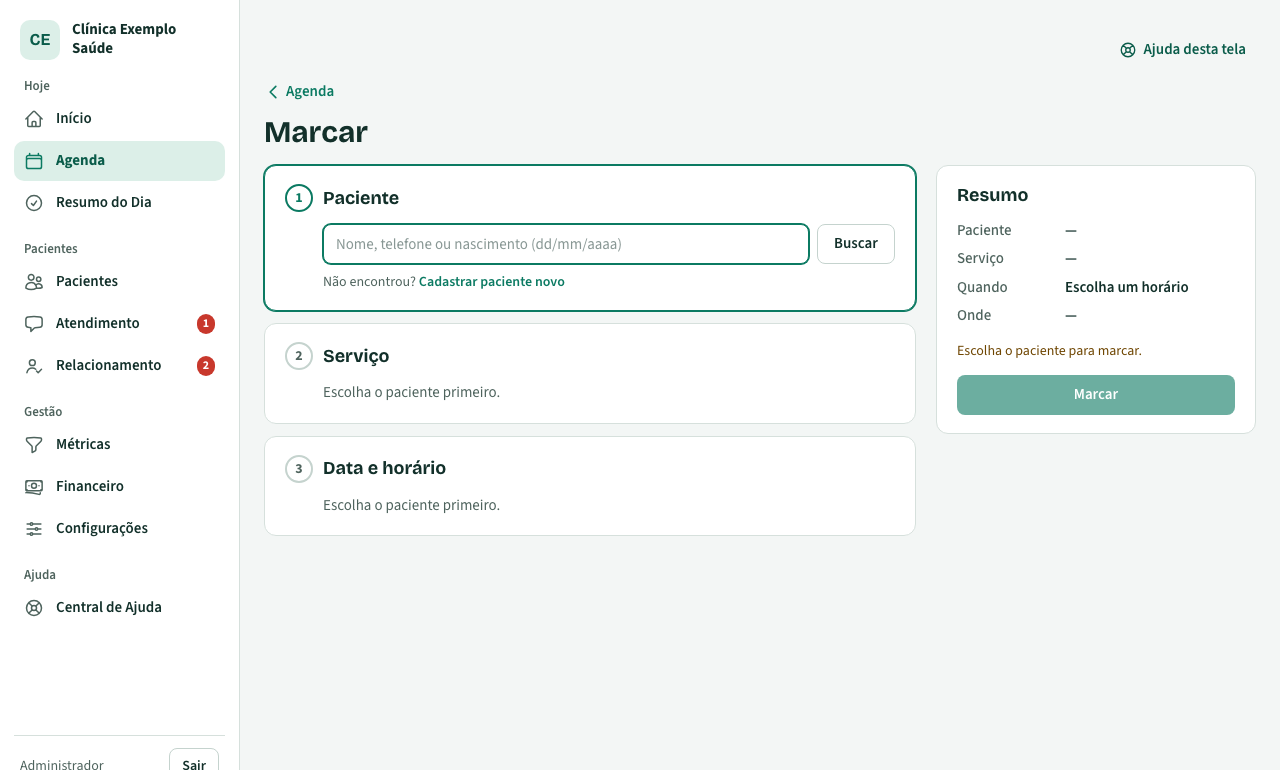
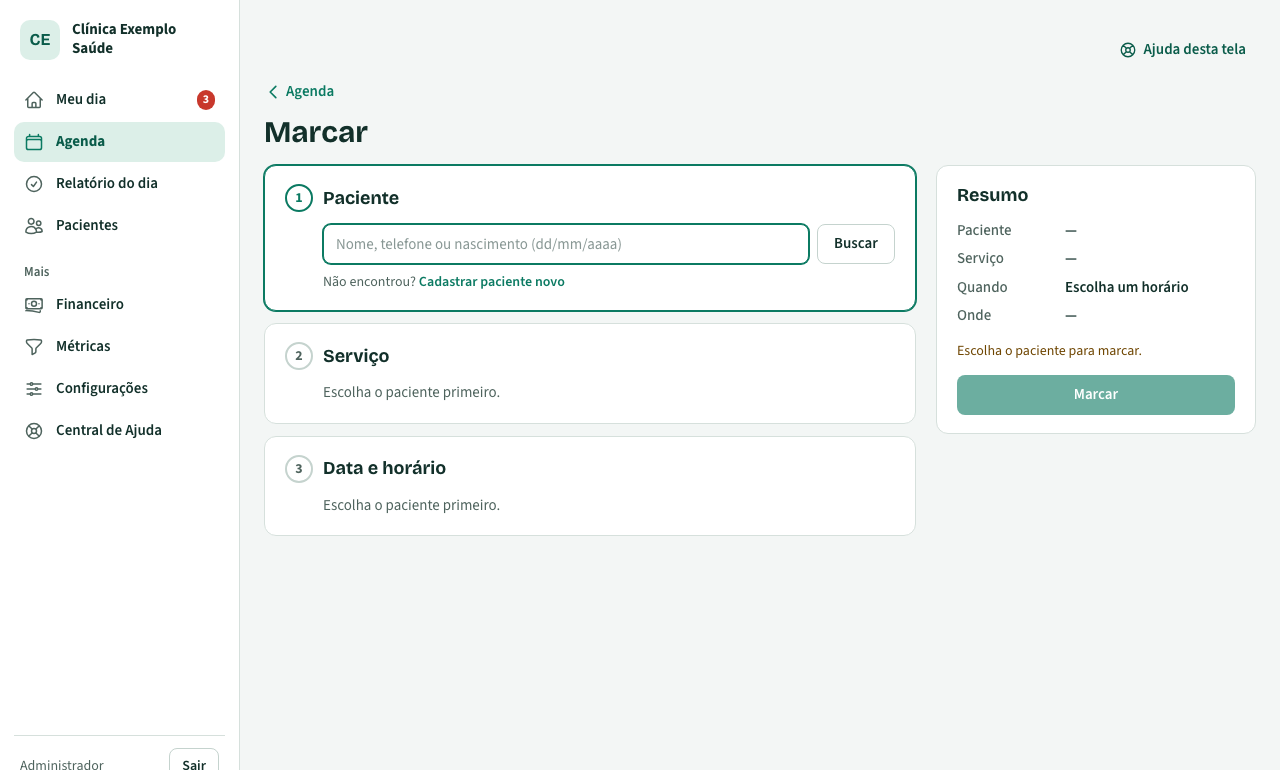
Central de Ajuda: artigos e 25 capturas refeitas com o redesign da Recepção

diff --git a/src/lib/central/artigos/atendimento.ts b/src/lib/central/artigos/atendimento.ts
@@ -39,24 +39,21 @@ export const atendimentoArtigos = [
   article({
     id: "resumo-do-dia",
     title: "Relatório do dia e suas abas",
-    summary: "O que há em cada aba: lembretes, lista de espera, aguardando remarcação, a registrar, registradas e envios.",
+    summary: "O que há em cada aba: Resumo do dia, Lembretes e A registrar.",
     category: "atendimento",
     module: "Relatório do dia",
     where: "Relatório do dia (no menu; também em Agenda › Mais)",
-    keywords: ["relatório do dia", "resumo do dia", "a registrar", "registradas", "aguardando remarcação", "envios", "lembretes"],
+    keywords: ["relatório do dia", "resumo do dia", "a registrar", "compareceu", "faltou", "lembretes"],
     synonyms: ["registrar comparecimento", "quem veio hoje", "pendências do dia", "marcar presença"],
-    related: ["situacoes-e-acoes-do-cartao", "lembretes-e-confirmacoes", "lista-de-espera"],
+    related: ["situacoes-e-acoes-do-cartao", "lembretes-e-confirmacoes", "relacionamento"],
     order: 41,
     intro: "Reúne o que a equipe precisa fazer no dia. Tudo vem das agendas que a pessoa vê (o Profissional vê só as próprias).",
     fields: [
-      { name: "Resumo do dia", text: "Só informação." },
+      { name: "Resumo do dia", text: "Só informação, em linhas curtas: o dia da clínica num relance." },
       { name: "Lembretes", text: "Quem confirmou, pediu para remarcar, pediu para cancelar, não respondeu ou ficou com o lembrete não entregue (com o item Lembrete automático)." },
-      { name: "Lista de espera", text: "Pacientes que querem antecipar (com o item Lista de espera)." },
-      { name: "Aguardando remarcação", text: "Quem teve o atendimento cancelado pela clínica (em massa ou pelo bloqueio) e ainda não remarcou." },
-      { name: "A registrar / Registradas", text: "Atendimentos que já passaram sem Compareceu ou Faltou, e os já registrados." },
-      { name: "Envios", text: "Atendimentos por vir com algum envio pelo WhatsApp que não saiu, e as rotinas que rodaram (Rodou, Rodando, Travou, Erro)." },
+      { name: "A registrar", text: "Atendimentos que já passaram sem Compareceu ou Faltou, o mais antigo primeiro, com os dois botões na própria linha (cada um pede confirmação). Para corrigir um já registrado, use a Agenda." },
     ],
-    notes: ["Falha técnica no envio é tentada de novo sozinha, 10 e 30 minutos depois (\"Tentando de novo\")."],
+    notes: ["Lista de espera e Aguardando remarcação ficam em Pacientes › Para contatar.", "Os envios que falharam e as rotinas do WhatsApp aparecem só para o Suporte do RecepClinic."],
     contextual: ["/admin/consultas"],
   }),
   article({
@@ -71,13 +68,13 @@ export const atendimentoArtigos = [
     synonyms: ["acompanhamento de pacientes", "quem devo chamar", "recuperar paciente"],
     related: ["atendimento-humano", "contatos-para-revisar", "ficha-do-paciente"],
     order: 42,
-    intro: "Reúne as pessoas que pedem contato da equipe, uma lista por vez: as listas ficam à esquerda, com o número de cada uma, e a escolhida à direita. São as mesmas listas do Relatório do dia e das Métricas, com as mesmas regras.",
+    intro: "Reúne as pessoas que pedem contato da equipe, uma lista por vez: as listas ficam à esquerda, com o número de cada uma, e a escolhida à direita. São as mesmas listas das Métricas, com as mesmas regras.",
     fields: [
       { name: "Retomar contato", text: "Quem começou pelo WhatsApp (bot ou link) e não concluiu nos últimos 14 dias. Várias tentativas do mesmo número no mesmo fluxo viram uma linha. \"Retirar da lista\" tira a linha daqui e das Métricas." },
       { name: "Retorno", text: "Consultas realizadas com o prazo de retorno aberto e sem retorno marcado." },
       { name: "Lembretes da equipe", text: "Os lembretes escritos na ficha do paciente, no dia marcado, até alguém marcar Feito." },
       { name: "Faltosos", text: "Quem tem 2 ou mais faltas e faltou em pelo menos metade dos atendimentos registrados." },
-      { name: "Aguardando remarcação e Lista de espera", text: "As mesmas do Relatório do dia." },
+      { name: "Aguardando remarcação e Lista de espera", text: "Quem teve o atendimento cancelado pela clínica e ainda não remarcou, e quem espera para antecipar (com o item Lista de espera). Saíram do Relatório do dia." },
     ],
     notes: [
       "Cada lista mostra quantas pessoas pedem atenção. A pessoa sai sozinha quando o motivo deixa de existir.",

diff --git a/src/lib/central/imagens.ts b/src/lib/central/imagens.ts
@@ -7,14 +7,14 @@ const shot = (file: string, alt: string, caption: string): ArticleImage => ({ fi
 
 export const IMAGENS: Record<string, ArticleImage[]> = {
   "inicio-do-painel": [shot("inicio", "Tela Meu dia com a linha do dia e a lista Precisa de você.", "Meu dia: o que precisa de você agora, numa lista só.")],
-  "agenda-visualizar": [shot("agenda-dia", "Agenda na visão Dia, com os botões Marcar e Bloquear destacados.", "Agenda › Dia: os botões Marcar e Bloquear ficam no alto, e cada atendimento mostra as ações no cartão.")],
-  "situacoes-e-acoes-do-cartao": [shot("agenda-dia", "Cartões de atendimento na Agenda, com a legenda das situações e os botões Confirmar presença, Remarcar, Mais e Cancelar.", "A legenda das situações fica acima das agendas; as ações estão no cartão de cada atendimento.")],
+  "agenda-visualizar": [shot("agenda-dia", "Agenda na visão Dia, com os botões Marcar e Bloquear destacados.", "Agenda › Dia: Bloquear, Mais e Marcar consulta ficam no alto; cada agenda tem as suas linhas curtas.")],
+  "situacoes-e-acoes-do-cartao": [shot("agenda-dia", "Linhas de atendimento na Agenda, com a legenda das situações.", "Toque na linha para abrir o cartão com as ações: Confirmar presença, Remarcar, Mais e Cancelar.")],
   "marcar-atendimento": [shot("marcar", "Tela Marcar, com o passo 1, Paciente, destacado e o resumo à direita.", "O Marcar começa pelo paciente: busque por nome, telefone ou nascimento, ou use \"Cadastrar paciente novo\".")],
   "bloquear-agenda": [shot("bloquear", "Tela Bloquear agenda, com a opção Dia todo destacada.", "Agenda › Bloquear: escolha as agendas, o período e o motivo.")],
   "gerenciar-bloqueios": [shot("bloqueios", "Lista de bloqueios da Agenda.", "Agenda › Bloqueios: edite ou remova os bloqueios que ainda não terminaram.")],
-  "buscar-pacientes": [shot("pacientes", "Lista de pacientes, com o campo de busca e o botão Cadastrar destacados.", "Pacientes: a busca aceita nome, telefone ou nascimento.")],
-  "cadastrar-paciente": [shot("paciente-novo", "Formulário de cadastro de paciente, com o botão de cadastrar destacado.", "Pacientes › Cadastrar: paciente, contato e, com Convênios, o plano.")],
-  "resumo-do-dia": [shot("resumo-do-dia", "Relatório do dia, com as abas Lembretes, A registrar e Registradas destacadas.", "Relatório do dia: uma aba para cada tipo de pendência.")],
+  "buscar-pacientes": [shot("pacientes", "Lista de pacientes, com o campo de busca e o botão Novo paciente destacados.", "Pacientes: a busca aceita nome, telefone ou nascimento.")],
+  "cadastrar-paciente": [shot("paciente-novo", "Formulário de cadastro de paciente, com o botão de cadastrar destacado.", "Pacientes › Novo paciente: paciente, contato e, com Convênios, o plano.")],
+  "resumo-do-dia": [shot("resumo-do-dia", "Relatório do dia, com as abas Resumo do dia, Lembretes e A registrar.", "Relatório do dia: o resumo, os lembretes e as consultas a registrar.")],
   "atendimento-humano": [shot("atendimento", "Tela Atendimento, com as conversas que aguardam a clínica.", "Atendimento: conversas em que o bot parou. Use Devolver ao bot ao terminar.")],
   relacionamento: [shot("relacionamento", "Pacientes › Para contatar, com as listas à esquerda e a escolhida à direita.", "Para contatar: uma lista para cada motivo de contato.")],
   "metricas-visao-geral": [shot("metricas", "Tela de Métricas, com as abas e o seletor de período.", "Métricas: escolha o período e a aba.")],

diff --git a/src/lib/central/artigos/agenda.ts b/src/lib/central/artigos/agenda.ts
@@ -21,7 +21,7 @@ export const agendaArtigos = [
       "Abra Agenda. A visão Dia abre com todas as agendas que a sua função vê; o nome da agenda aparece em cada atendimento.",
       "Use as setas e a data para mudar o dia. Na Semana e no Mês, toque num dia para abri-lo na visão Dia, onde ficam as ações.",
       "Para ver só algumas agendas, escolha-as no filtro de agendas.",
-      "Para achar os atendimentos futuros de um paciente, use a busca da Agenda: nome ou telefone (4 dígitos ou mais). Com um só resultado, os próximos atendimentos já aparecem.",
+      "Para achar os atendimentos futuros de um paciente, use Mais › Buscar paciente, no alto da Agenda: nome ou telefone (4 dígitos ou mais). Com um só resultado, os próximos atendimentos já aparecem.",
     ],
     notes: [
       "O Profissional vê só as próprias agendas. Quem tem acesso restrito vê apenas as agendas liberadas na Equipe.",
@@ -68,7 +68,7 @@ export const agendaArtigos = [
   }),
   article({
     id: "situacoes-e-acoes-do-cartao",
-    title: "Situações e ações do cartão do atendimento",
+    title: "Situações e ações do atendimento (cartão)",
     summary: "O que significam as cores e os botões de cada atendimento na Agenda.",
     category: "agenda",
     module: "Agenda › Dia",
@@ -77,7 +77,7 @@ export const agendaArtigos = [
     synonyms: ["cores da agenda", "o que significa", "confirmar presença", "registrar falta"],
     related: ["remarcar-atendimento", "cancelar-atendimento", "alterar-atendimento", "trilha-do-atendimento"],
     order: 12,
-    intro: "A cor e o selo de cada atendimento dizem em que pé ele está. As ações mudam conforme a situação.",
+    intro: "Na Agenda › Dia, cada atendimento é uma linha curta com o horário, o paciente e a situação. Toque na linha para abrir as ações no lugar (o \"cartão\"). A cor e o selo dizem em que pé ele está; as ações mudam conforme a situação.",
     fields: [
       { name: "Não confirmado", text: "O paciente ainda não confirmou a presença." },
       { name: "Confirmado", text: "O paciente tocou em Confirmar presença no lembrete do WhatsApp ou pelo bot, ou a recepção usou Confirmar presença no cartão." },
@@ -281,12 +281,11 @@ export const agendaArtigos = [
     title: "Lista de espera: encaixe e antecipar atendimentos",
     summary: "Como a vaga de um cancelamento é oferecida a quem quer antecipar.",
     category: "agenda",
-    module: "Relatório do dia › Lista de espera",
-    where: "Relatório do dia › Lista de espera (com o item Lista de espera)",
-    screen: { path: "/admin/consultas", tab: "lista_espera" },
+    module: "Pacientes › Para contatar › Lista de espera",
+    where: "Pacientes › Para contatar › Lista de espera (com o item Lista de espera)",
     keywords: ["lista de espera", "encaixe", "antecipar", "vaga", "oferta", "fila"],
     synonyms: ["adiantar consulta", "quero um horário mais cedo", "vaga que abriu"],
-    related: ["cancelar-atendimento", "como-funciona-o-bot", "resumo-do-dia"],
+    related: ["cancelar-atendimento", "como-funciona-o-bot", "relacionamento"],
     order: 21,
     intro: "A lista é de quem já tem horário marcado e quer antecipar. Entra pelo WhatsApp (\"Encaixe ou antecipar\") ou pela recepção.",
     fields: [

diff --git a/src/lib/central/faq.ts b/src/lib/central/faq.ts
@@ -25,7 +25,7 @@ export const FAQS: Faq[] = [
   f("bot-parou", "A conversa parou de ser respondida pelo bot. Por quê?", "Provavelmente está em Atendimento, esperando a clínica. Depois de atender, toque em Devolver ao bot (ou escreva #bot na conversa).", "atendimento-humano", ["pausado"]),
   f("devolver-bot", "Como devolvo a conversa ao bot?", "Em Atendimento, \"Devolver ao bot\", ou escreva #bot na conversa pelo app. O bot volta na próxima mensagem do paciente.", "atendimento-humano"),
   f("bot-nao-agenda", "Por que o bot não está realizando agendamentos?", "Confira se a clínica saiu da implantação, se o WhatsApp está Conectado, se há horário livre no prazo e se o contato não bateu um limite.", "bot-nao-agenda"),
-  f("lembrete-nao-saiu", "O paciente não recebeu o lembrete. O que olho?", "Veja Relatório do dia › Envios e Configurações › WhatsApp (conexão, mensagens aprovadas e forma de pagamento na Meta).", "lembrete-nao-saiu"),
+  f("lembrete-nao-saiu", "O paciente não recebeu o lembrete. O que olho?", "Veja Relatório do dia › Lembretes (Não entregue) e Configurações › WhatsApp (conexão, mensagens aprovadas e forma de pagamento na Meta).", "lembrete-nao-saiu"),
   f("confirmar-presenca", "Como o paciente confirma a presença?", "Tocando em Confirmar presença no lembrete do WhatsApp. A recepção também confirma pelo cartão.", "lembretes-e-confirmacoes"),
   f("sem-horario", "Não aparece nenhum horário livre. O que pode ser?", "Falta horário de atendimento, é feriado, há bloqueio, o serviço não está ligado à agenda/local, ou o dia passou do prazo (no bot e no link).", "sem-horario-livre"),
   f("servico-sumiu", "O serviço não aparece para marcar. Por quê?", "Veja o selo dele em Configurações › Serviços: sem agenda, sem local ou sem horário.", "servico-nao-aparece"),

diff --git a/src/lib/central/artigos/pacientes.ts b/src/lib/central/artigos/pacientes.ts
@@ -21,7 +21,7 @@ export const pacientesArtigos = [
       "Abra Pacientes e digite na busca: o nome, o telefone (só números, 4 ou mais) ou o nascimento no formato dd/mm/aaaa.",
       "Para incluir os cadastros desativados, use \"Mostrar desativados\".",
       "Toque no nome para abrir a ficha. São 20 por página.",
-      "Sem resultado, use \"Limpar a busca\" ou \"Cadastrar\".",
+      "Sem resultado, use \"Limpar a busca\" ou \"Novo paciente\".",
     ],
   }),
   article({
@@ -30,14 +30,14 @@ export const pacientesArtigos = [
     summary: "Os campos do cadastro e a diferença entre paciente e responsável.",
     category: "pacientes",
     module: "Pacientes › Novo",
-    where: "Pacientes › Cadastrar",
+    where: "Pacientes › Novo paciente",
     keywords: ["cadastrar paciente", "novo paciente", "responsável", "whatsapp", "plano", "carteirinha", "anotação"],
     synonyms: ["incluir paciente", "criar cadastro", "adicionar cliente"],
     related: ["responsavel-e-contato", "ficha-do-paciente", "marcar-atendimento"],
     order: 31,
     intro: "O cadastro tem três blocos: o paciente, quem fala com a clínica (o contato) e, com o item Convênios, o plano.",
     steps: [
-      "Abra Pacientes › Cadastrar.",
+      "Abra Pacientes › Novo paciente.",
       "No bloco do paciente, preencha o nome e a data de nascimento. A anotação é opcional.",
       "No bloco de contato, diga se o paciente fala por si (maior de 18 anos) ou se outra pessoa fala por ele; informe o nome do contato e o WhatsApp.",
       "Com Convênios, escolha o plano; carteirinha e validade são opcionais.",

diff --git a/src/lib/central/artigos/problemas.ts b/src/lib/central/artigos/problemas.ts
@@ -33,14 +33,14 @@ export const problemasArtigos = [
     summary: "Causas comuns e como reenviar.",
     category: "problemas",
     module: "WhatsApp › Lembretes",
-    where: "Relatório do dia › Lembretes e Envios",
+    where: "Relatório do dia › Lembretes (e, para o Suporte, Envios)",
     keywords: ["lembrete", "não enviado", "não entregue", "reenviar lembrete", "meta", "template"],
     synonyms: ["paciente não recebeu aviso", "lembrete falhou"],
     related: ["lembretes-e-confirmacoes", "config-whatsapp", "resumo-do-dia"],
     order: 111,
     intro: "Lembrete e avisos automáticos usam mensagens aprovadas pela Meta.",
     steps: [
-      "Veja Relatório do dia › Envios: atendimentos com envio que não saiu e se a rotina rodou, travou ou deu erro.",
+      "Veja Relatório do dia › Lembretes, aba Não entregue. Se o problema persistir, peça ao Suporte do RecepClinic para olhar os Envios (rotinas e falhas).",
       "Confira Configurações › WhatsApp: a conexão deve estar Conectada e as mensagens automáticas aprovadas (pendentes ou recusadas não saem).",
       "Confira a forma de pagamento na Meta: sem ela, as mensagens automáticas não saem.",
       "Atendimento marcado depois do horário do envio fica sem lembrete: use Enviar lembrete no cartão da Agenda.",

diff --git a/src/lib/central/artigos/primeiros-passos.ts b/src/lib/central/artigos/primeiros-passos.ts
@@ -20,7 +20,7 @@ export const primeirosPassos = [
     fields: [
       { name: "Meu dia", text: "O que precisa de você agora: conversas do WhatsApp à espera da clínica (só com o bot), consultas para registrar presença, contatos a conferir e quem ainda não respondeu ao lembrete." },
       { name: "Agenda", text: "O dia, a semana e o mês, com Marcar, Bloquear e, no Mais, Bloqueios, Buscar paciente e o Relatório do dia." },
-      { name: "Relatório do dia", text: "Lembretes, lista de espera, aguardando remarcação, consultas a registrar e envios do dia, num item próprio do menu (e também no Mais da Agenda)." },
+      { name: "Relatório do dia", text: "Resumo do dia, Lembretes e as consultas A registrar (Compareceu ou Faltou), num item próprio do menu (e também no Mais da Agenda)." },
       { name: "Pacientes", text: "Fichas e contatos, e a lista Para contatar: as pendências que pedem contato da equipe (Administrador e Recepção, com o item liberado)." },
       { name: "Mais", text: "Financeiro, Métricas, Configurações e a Central de Ajuda (este manual). Cada um depende do papel e do plano; o que a pessoa não acessa não aparece." },
       { name: "Trocar clínica", text: "Aparece no alto do menu para quem tem acesso a mais de uma clínica." },

diff --git a/docs/capturas-pendentes.md b/docs/capturas-pendentes.md
@@ -9,12 +9,4 @@ a captura e o motivo, avisar o cliente no fim da etapa e esperar a autorização
 
 ## Pendentes
 
-- `inicio` — a tela virou Meu dia (linha do dia, "Precisa de você", busca de paciente); o cartão "Comparecimento a registrar" saiu e o roteiro agora espera "Precisa de você" (02/11/2026)
-- `pacientes` — as abas viraram Todos, Responsáveis e Para contatar (com contador) (02/11/2026)
-- `resumo-do-dia` — a tela passou a se chamar Relatório do dia (título e abas); o nome na captura e no artigo muda (02/11/2026)
-- `agenda-dia` — cabeçalho novo: Bloquear, Mais (Bloqueios, Buscar paciente, Relatório do dia) e Marcar consulta; a busca saiu da barra (02/11/2026)
-- **todas as capturas de tela inteira** — o menu lateral mudou (Meu dia, Agenda, Pacientes e Mais); toda captura que mostra a lateral fica desatualizada. Recapturar tudo de uma vez, junto com a RX9 (02/11/2026)
-- `agenda-dia` (de novo; usada também no artigo dos cartões) — o atendimento virou linha curta que abre no lugar (RX7) (02/11/2026)
-- `agenda-dia` (de novo) — Agenda opção B: cartões por agenda com linhas curtas e o painel ao lado; cabeçalho numa linha (02/11/2026)
-- `pacientes`, `ficha-do-paciente` e `relacionamento` (de novo) — Pacientes, Para contatar e ficha como no protótipo A (cabeçalho com abas, cartões de lista, faixa âmbar, cartões-resumo) (02/11/2026)
-- `resumo-do-dia` (de novo) — Relatório do dia opção C: três abas, Resumo em linhas curtas e A registrar com Compareceu/Faltou (02/11/2026)
+(nenhuma; as 25 capturas foram refeitas em 02/11/2026, com o redesign da Recepção)

diff --git a/docs/README.md b/docs/README.md
@@ -32,8 +32,7 @@
 >   staging e etapa B.
 > - **Redesign da Recepção (UX)** ([`redesign-recepcao.md`](redesign-recepcao.md)): RX1 a RX9 e os ajustes da validação
 >   (Meu dia, Agenda opção B, Pacientes/ficha A, Relatório do dia opção C) **na `main` e no staging (02/nov)**, sem
->   produção. **Próximo (cliente, 02/nov): atualizar a Central de Ajuda** com todas as mudanças das telas (artigos e
->   recaptura de todas as telas: [`capturas-pendentes.md`](capturas-pendentes.md)). Avisos técnicos só do Suporte; tela
+>   produção. **Central de Ajuda atualizada com o redesign (02/nov):** artigos e as 25 capturas refeitas, no staging após o push; falta o cliente validar. Avisos técnicos só do Suporte; tela
 >   de pendências do Suporte pendente em [`painel-suporte.md`](painel-suporte.md).
 >
 > **Pendências**
